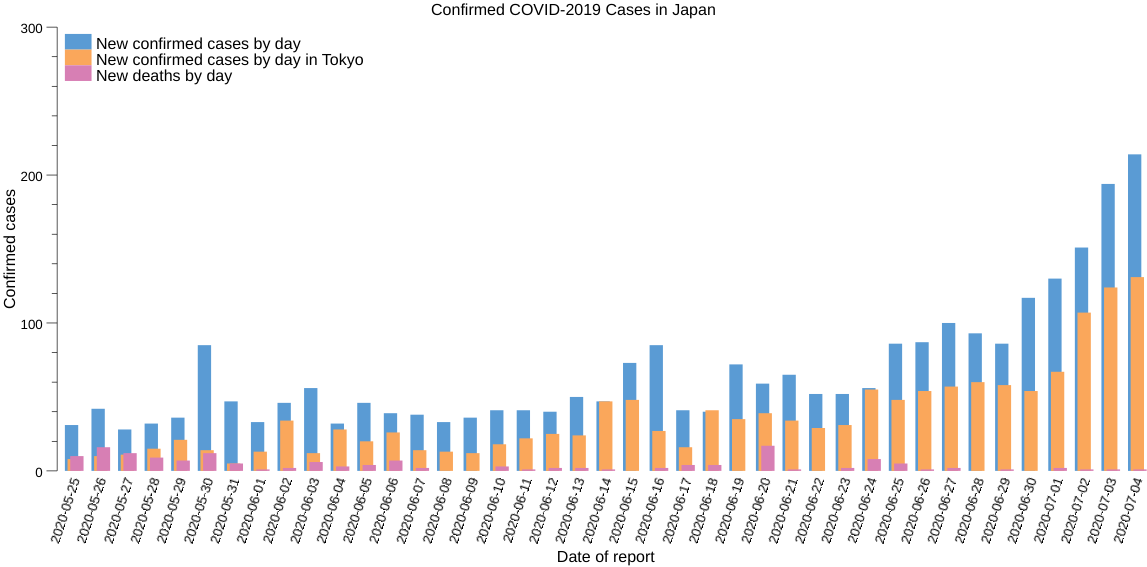
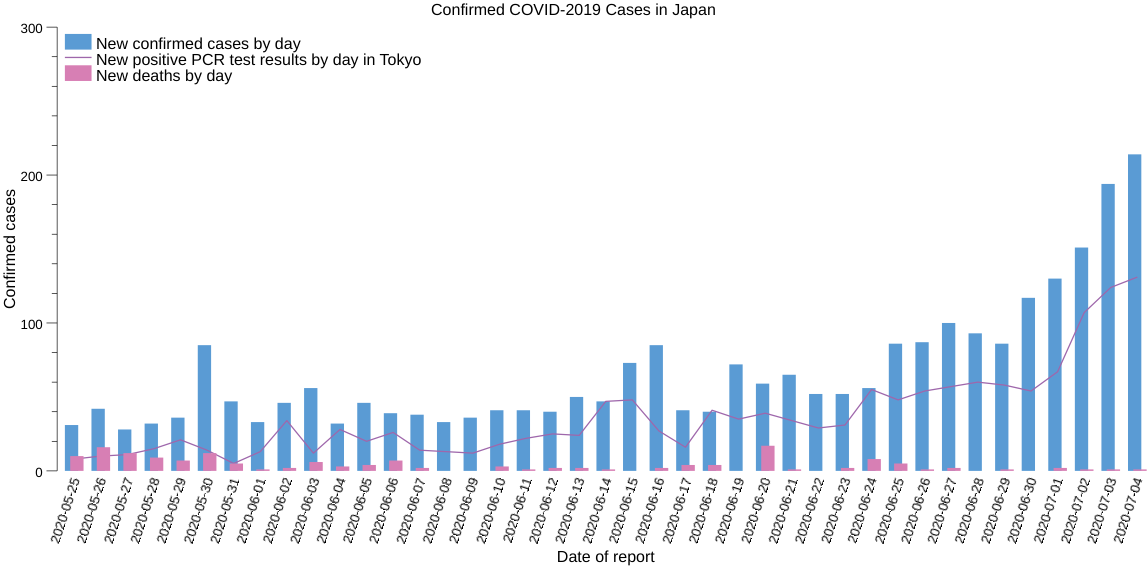
Modified style of graph

Changed region(s): [[0.1221, 0.4797, 1.0, 0.8395], [0.1221, 0.0899, 0.3662, 0.1199], [0.0305, 0.0899, 0.0915, 0.1199]]

diff --git a/chart/cases2.go b/chart/cases2.go
@@ -66,14 +66,14 @@ func BarChartNewCases2(rps report.Reports, start, end values.Date, outPath strin
 	}
 	labelX := []string{}
 	dataY1 := plotter.Values{}
-	dataY1b := plotter.Values{}
+	dataY1b := plotter.XYs{}
 	dataY2 := plotter.Values{}
 	maxCases := 0.0
-	for _, d := range data {
+	for i, d := range data {
 		labelX = append(labelX, d.date)
 		dataY1 = append(dataY1, d.newCases)
 		maxCases = max(maxCases, d.newCases)
-		dataY1b = append(dataY1b, d.newCasesTokyo)
+		dataY1b = append(dataY1b, plotter.XY{X: (float64)(i), Y: d.newCasesTokyo})
 		maxCases = max(maxCases, d.newCasesTokyo)
 		dataY2 = append(dataY2, d.newDeaths)
 		maxCases = max(maxCases, d.newDeaths)
@@ -101,15 +101,13 @@ func BarChartNewCases2(rps report.Reports, start, end values.Date, outPath strin
 	bar1.Horizontal = false
 	p.Add(bar1)
 
-	bar1b, err := plotter.NewBarChart(dataY1b, vg.Points(10))
+	//new line chart
+	line, err := plotter.NewLine(dataY1b)
 	if err != nil {
 		return errs.Wrap(err, "", errs.WithContext("start", start), errs.WithContext("outPath", outPath))
 	}
-	bar1b.LineStyle.Width = vg.Length(0)
-	bar1b.Color = plotutil.Color(3)
-	bar1b.Offset = 0
-	bar1b.Horizontal = false
-	p.Add(bar1b)
+	line.Color = plotutil.Color(4)
+	p.Add(line)
 
 	bar2, err := plotter.NewBarChart(dataY2, vg.Points(10))
 	if err != nil {
@@ -137,7 +135,7 @@ func BarChartNewCases2(rps report.Reports, start, end values.Date, outPath strin
 
 	//legend
 	p.Legend.Add("New confirmed cases by day", bar1)
-	p.Legend.Add("New confirmed cases by day in Tokyo", bar1b)
+	p.Legend.Add("New positive PCR test results by day in Tokyo", line)
 	p.Legend.Add("New deaths by day", bar2)
 	p.Legend.Top = true  //top
 	p.Legend.Left = true //left
